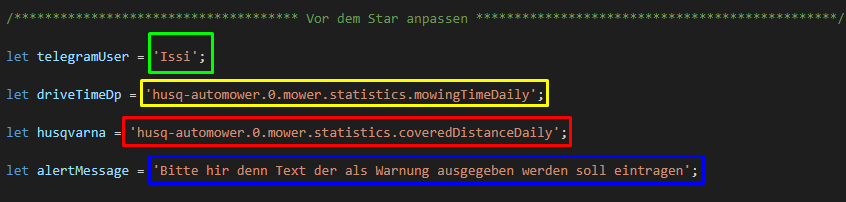
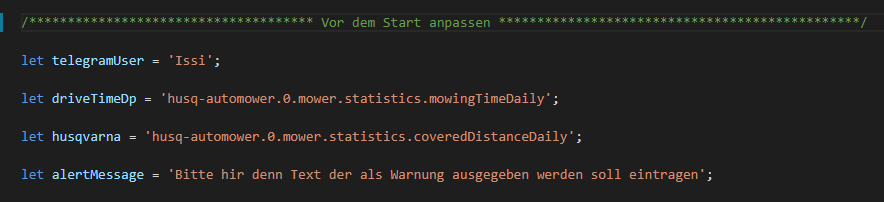
Update

Changed region(s): [[0.0, 0.5644, 0.8605, 0.9208], [0.0, 0.1485, 0.6761, 0.5347], [0.0, 0.0594, 1.0, 0.1485]]

diff --git a/husqvarna_messerwechsel_warnung.js b/husqvarna_messerwechsel_warnung.js
@@ -6,7 +6,7 @@ let debug = false;
 let force = false;
 
 
-/************************************* Vor dem Star anpassen ***********************************************/
+/************************************* Vor dem Start Anpassen ***********************************************/
 
 let telegramUser = 'Issi';
 
@@ -36,7 +36,7 @@ let Range = null;
 let RangePuffer = null;
 let warning_limit_state = null;
 
-/* main function für die berechnung */
+/* main function für die Berechnung */
 function restRange() {
 
     /* Warnlimit State wird abgefragt */
@@ -150,7 +150,7 @@ function driveTime() {
 
 }
 
-/******************************************************* Telegram Function ***************************************************************************/
+/******************************************************* Telegramm Function ***************************************************************************/
 
 let telegramMessage;
 
@@ -250,7 +250,7 @@ driveTime()
         }],
 
         [telegram_changing_message, {
-            'name': 'Messer wechseln Telegram meldung senden einschalten', 'type': 'boolean', 'read': true, 'write': true,
+            'name': 'Messer wechseln Telegram Meldung senden einschalten', 'type': 'boolean', 'read': true, 'write': true,
             'role': 'switch', 'def': false
         }],
 

diff --git a/README.md b/README.md
@@ -3,29 +3,24 @@
 ![preview](media/Screenshot.png)
 
 
- - #### Rot markierte Stelle ist die id von dem Datenpunkt vom Husqvarna Mähroboter wo die gefahrenen Meter für den Tag eingetragen sind.
-
-- #### **[Optional]** <br> An die Grün markierte Stelle kommt dein Telegram User Name rein damit dir das Skript eine Telegramm Nachricht sendet wen die Messer gewechselt werden müssen.
-
-- #### An der Blau markierte Stelle wird der Text für die Warnmeldung eingetragen diese wird auch im Iobroker Log ausgegeben.
-
-- #### Die Gelb markierte Stelle kommt die id von dem Datenpunkt für die Fahrzeit für Heute rein.
+ * Unter **telegramUser** kommt der Telegramm User Name, an dem die Warnung geschickt werden soll.
+ * bei **driveTimeDp** kommt die id von dem Datenpunkt für die Fahrzeit für Heute rein.
+ * unter **husqvarna** kommt die id von dem Datenpunkt vom Husqvarna Mähroboter wo die gefahrenen Meter für den Tag eingetragen sind. <br>
+ * unter **alertMessage** könnt ihr euren eigenen Text für die Warnung angeben. 
 
 Weiter unten wird nichts mehr verändert.
 
-#### Unter **(0_userdata.0.husqvarna)** werden 7 Datenpunkte erstellt.
+### Unter **(0_userdata.0.husqvarna)** werden 7 Datenpunkte erstellt.
 
 ![preview](media/Screenshot_dp.png)
 
-1.  **changing_knife** => Zeigt an das die Messer gewechselt werden müssen.
-2.  **drive_time** => zeigt die Zeit die der Mähroboter heute gefahren ist.
-3.  **driving_route** =>  zeigt die Fahrstrecke in km die der Mähroboter heute gefahren ist.
-4.  **knife_changed** =>  Mit diesem button resetet man die wechsel meldung und die km. 
-5.  **rest_range** => zeigt die restlichen km bis zum wechsel.
-6.  **telegram_changing_message** =>  hier kann man die Telegramm nachricht ein und ausschalten **Standardmäßig ist sie ausgeschaltet.**
-7.  **warning_limit** =>  hier werden die km eingestelt bei den die warnung ausgegeben werden soll.
-
-
+1.  **changing_knife** => zeigt an das die Messer gewechselt werden müssen.
+2.  **drive_time** => zeigt die Zeit, die der Mähroboter heute gefahren ist.
+3.  **driving_route** => zeigt die Fahrstrecke in km, die der Mähroboter heute gefahren ist.
+4.  **knife_changed** => Mit diesem button resetet man die Wechsel Meldung und die km. 
+5.  **rest_range** => zeigt die restlichen km bis zum Wechsel.
+6.  **telegram_changing_message** => hier kann man die Telegramm Nachricht ein und ausschalten **standardmäßig ist sie ausgeschaltet. **
+7.  **warning_limit** => hier werden die km eingestellt bei den die Warnung ausgegeben werden soll.
 
 ## Changelog
 ### 0.0.5 (2020-03-27)
